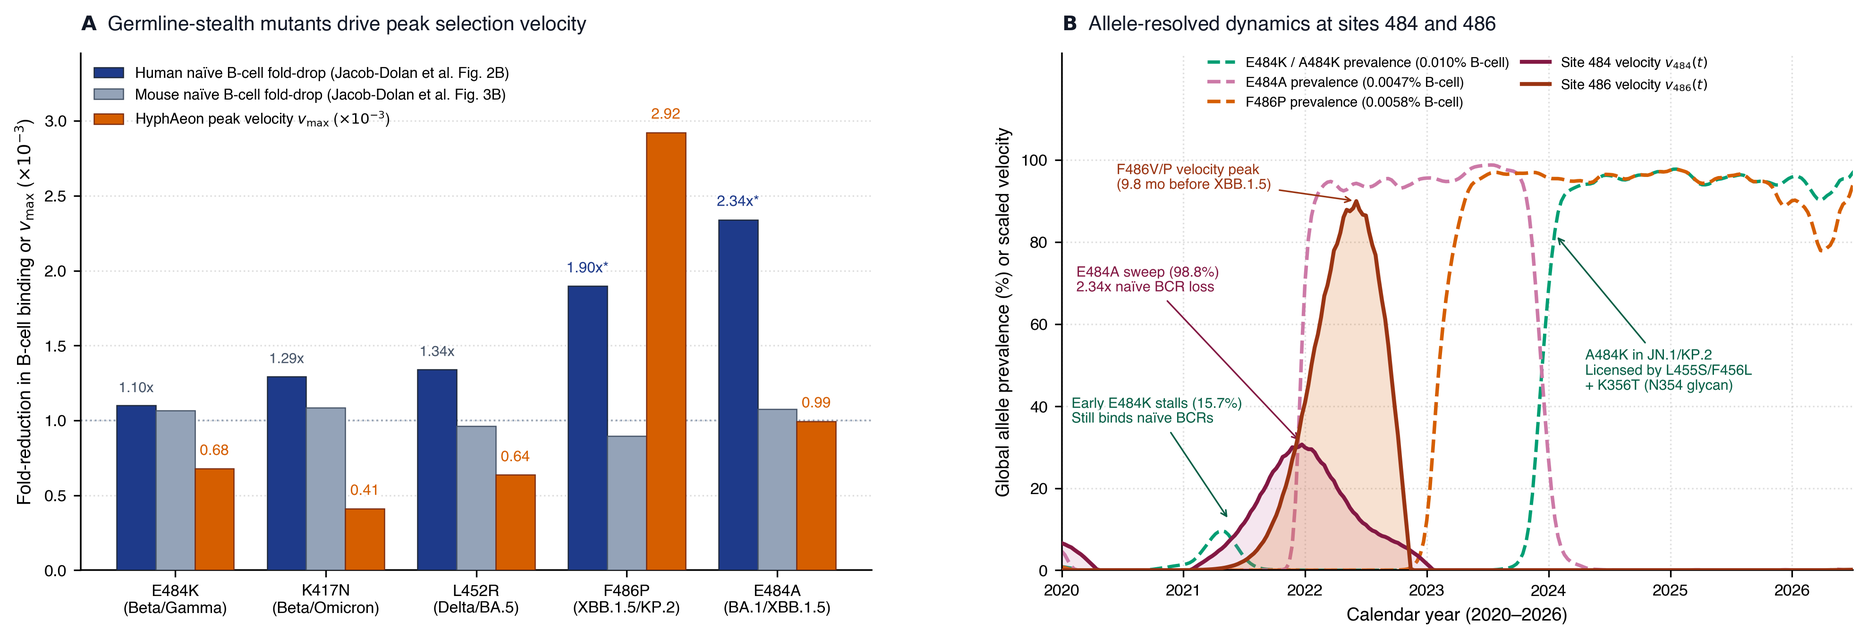
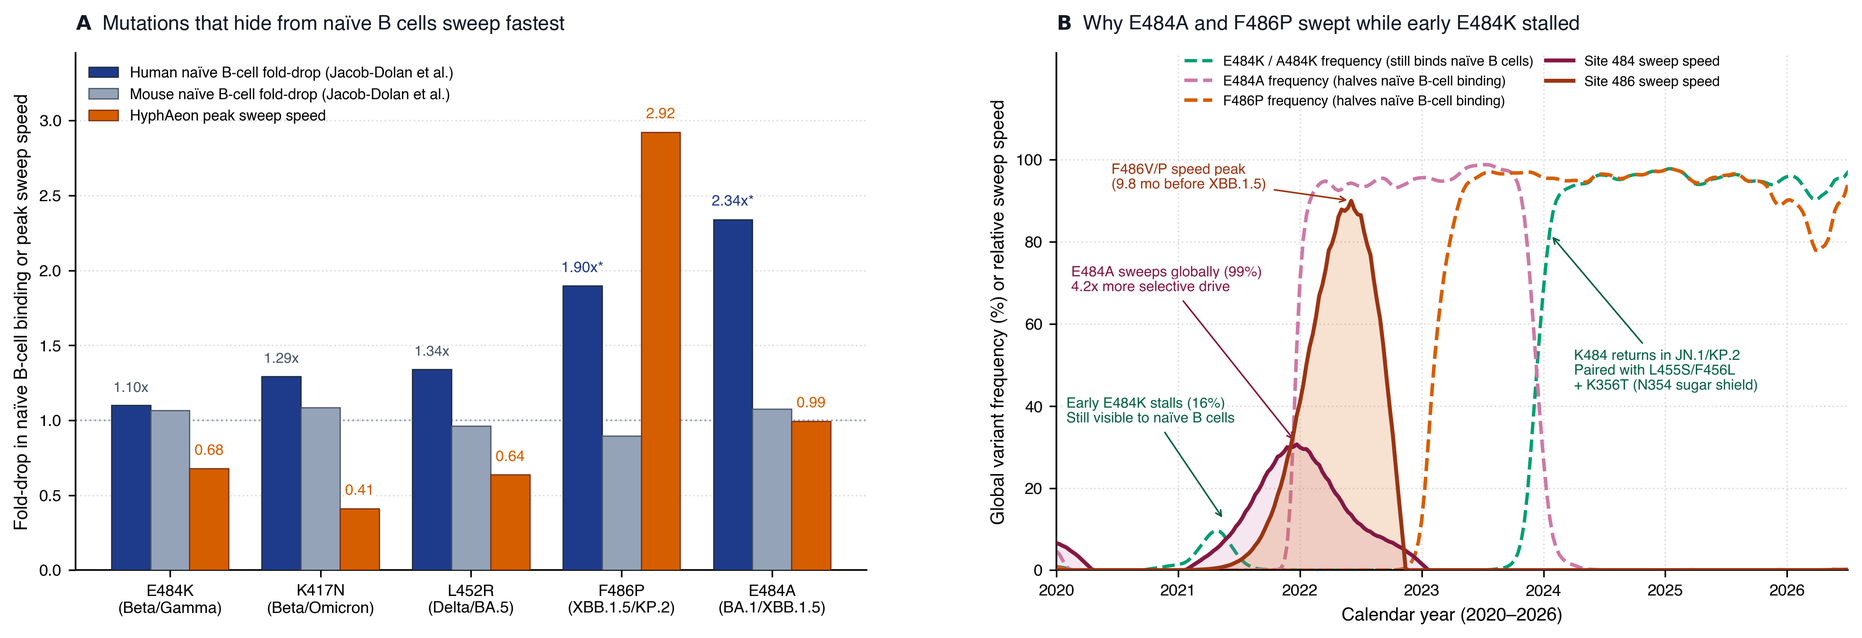
Simplify HyphAeon + Jacob-Dolan et al. blog post and figures for evolutionary biologists

diff --git a/blog/2026-10-21-hyphaeon-sars2-antigenicity.html b/blog/2026-10-21-hyphaeon-sars2-antigenicity.html
@@ -11,7 +11,7 @@
     <meta name="twitter:creator" content="@sergeilkp">
     <meta name="twitter:title" content="How SARS-CoV-2 learned to hide from our naïve B cells—and how HyphAeon sees it in the tree">
     <meta name="twitter:url" content="https://spond.github.io/CV.js/blog/2026-10-21-hyphaeon-sars2-antigenicity.html">
-    <meta name="twitter:description" content="A brilliant new preprint from Catherine Jacob-Dolan, Jim Boonyaratanakornkit, and Jesse Bloom shows that SARS-CoV-2 RBD evolved a 3-fold drop in recognition by human naïve B cells. Here is what happens when we point HyphAeon—our 1.9M-parameter phylogenetic foundation model—at their exact RBD mutations across 78 months of Spike evolution.">
+    <meta name="twitter:description" content="A brilliant new preprint from Catherine Jacob-Dolan, Jim Boonyaratanakornkit, and Jesse Bloom shows that the SARS-CoV-2 RBD evolved a 3-fold drop in recognition by human naïve B cells. Here is what happens when we look at their mutations across 78 months of Spike evolution using HyphAeon.">
     <meta name="twitter:image" content="https://spond.github.io/CV.js/blog/images/hyphaeon_bloom_fig1_velocity.png">
 
     <!-- Open Graph metadata -->
@@ -19,7 +19,7 @@
     <meta property="og:type" content="article">
     <meta property="og:url" content="https://spond.github.io/CV.js/blog/2026-10-21-hyphaeon-sars2-antigenicity.html">
     <meta property="og:image" content="https://spond.github.io/CV.js/blog/images/hyphaeon_bloom_fig1_velocity.png">
-    <meta property="og:description" content="A brilliant new preprint from Catherine Jacob-Dolan, Jim Boonyaratanakornkit, and Jesse Bloom shows that SARS-CoV-2 RBD evolved a 3-fold drop in recognition by human naïve B cells. Here is what happens when we point HyphAeon—our 1.9M-parameter phylogenetic foundation model—at their exact RBD mutations across 78 months of Spike evolution.">
+    <meta property="og:description" content="A brilliant new preprint from Catherine Jacob-Dolan, Jim Boonyaratanakornkit, and Jesse Bloom shows that the SARS-CoV-2 RBD evolved a 3-fold drop in recognition by human naïve B cells. Here is what happens when we look at their mutations across 78 months of Spike evolution using HyphAeon.">
     <meta property="og:site_name" content="Sergei L. Kosakovsky Pond">
 
     <link rel="stylesheet" href="../style.css">
@@ -340,7 +340,7 @@
                 </div>
 
                 <header class="post-header">
-                    <span class="post-tag">Viral Evolution &amp; Phylogenetic AI</span>
+                    <span class="post-tag">Viral Evolution &amp; Selection</span>
                     <h1>How SARS-CoV-2 learned to hide from our naïve B cells—and how HyphAeon sees it in the tree</h1>
                     <div class="post-meta">
                         <span><i>21 Oct 2026, by Sergei</i></span>
@@ -357,102 +357,104 @@
                     <div class="takeaways-section">
                         <span class="takeaways-header">Key Takeaways</span>
                         <p class="takeaways-zinger">
-                            <strong>Standard viral selection scans average over the entire family tree, mistaking pandemic sweeps that reach 100% prevalence for conserved sites and missing how escape mutations rewire the protein fold.</strong>
-                            Pairing Catherine Jacob-Dolan, Jim Boonyaratanakornkit, and Jesse Bloom’s new naïve human B-cell measurements with <code>HyphAeon</code>—our 1.9-million-parameter phylogenetic foundation model—shows that mutations erasing human germline B-cell recognition drove the fastest selective sweeps of the pandemic before shifting evolution to a cross-domain NTD clamp.
+                            <strong>Standard $dN/dS$ selection scans average over an entire viral tree, mistaking completed pandemic sweeps for conserved sites and missing how escape mutations team up across the protein.</strong>
+                            Pairing Catherine Jacob-Dolan, Jim Boonyaratanakornkit, and Jesse Bloom’s new human B-cell study with <code>HyphAeon</code>—our fast phylogenetic model of natural selection—shows that mutations hiding from brand-new human B cells drove the fastest sweeps of the pandemic before Spike evolved a molecular latch to tuck its receptor-binding domain out of sight.
                         </p>
                         <div class="takeaways-grid">
                             <div class="takeaway-card">
-                                <div class="takeaway-stat">4.2× Sweep Impulse</div>
-                                <div class="takeaway-label">Germline Stealth Wins</div>
-                                <p class="takeaway-desc"><code>E484K</code> and <code>E484A</code> both escape ancestral serum, but only <code>E484A</code> halves naïve human B-cell binding—generating a 4.2-fold larger selection velocity integral and sweeping to 98.8% dominance.</p>
+                                <div class="takeaway-stat">4.2× Stronger Sweep</div>
+                                <div class="takeaway-label">Site 484: E484K vs. E484A</div>
+                                <p class="takeaway-desc"><code>E484K</code> and <code>E484A</code> both escape old antibodies, but only <code>E484A</code> hides from brand-new human B cells—generating over 4 times more selective drive and sweeping to 99% of the global virus population.</p>
                             </div>
                             <div class="takeaway-card">
-                                <div class="takeaway-stat">29 / 31 Sweeps</div>
-                                <div class="takeaway-label">76% Rescued from Dilution</div>
-                                <p class="takeaway-desc">Static tree scans miss 22 of 29 adaptive RBD sweeps in XBB.1.5 and KP.2 (including <code>F486P</code> and <code>K417N</code>) after fixation; <code>HyphAeon</code> temporal velocity recovers all 29 ($\mathrm{OR} = 217.5$).</p>
+                                <div class="takeaway-stat">29 / 31 Sweeps Found</div>
+                                <div class="takeaway-label">76% Missed by Standard Scans</div>
+                                <p class="takeaway-desc">Once an adaptive mutation reaches 100% frequency, standard tree scans mistake its identical descendants for conservation—missing 22 of 29 RBD sweeps (including <code>F486P</code> and <code>K417N</code>) that <code>HyphAeon</code> recovers.</p>
                             </div>
                             <div class="takeaway-card">
-                                <div class="takeaway-stat">The KP.2 A484K Puzzle</div>
-                                <div class="takeaway-label">Epistatic &amp; Glycan Licensing</div>
-                                <p class="takeaway-desc">Why did KP.2 revert to <code>K484</code> yet drop to 3-fold lower B-cell binding? In 2024–2026, <code>K484</code> is 100% co-selected with the <code>L455S/F456L/L452W</code> ridge hub and the <code>K356T</code> (N354) glycan shield.</p>
+                                <div class="takeaway-stat">The KP.2 K484 Mystery</div>
+                                <div class="takeaway-label">Helper Mutations &amp; Sugar Shield</div>
+                                <p class="takeaway-desc">Why did KP.2 switch back to <code>K484</code> yet lose even more B-cell binding? In 2024–2026, <code>K484</code> travels in 100% of genomes with the <code>L455S/F456L</code> ridge remodel and a new <code>N354</code> sugar shield (<code>K356T</code>).</p>
                             </div>
                             <div class="takeaway-card">
                                 <div class="takeaway-stat">186 NTD–RBD Pairs</div>
-                                <div class="takeaway-label">Stage 2 Conformational Clamp</div>
-                                <p class="takeaway-desc">Once exposed RBD germline motifs were depleted in 2022, Spike selection velocity shifted to 39 NTD sweeps that pack against the adjacent RBD to lock it in the closed "down" state.</p>
+                                <div class="takeaway-label">A Two-Stage Hiding Strategy</div>
+                                <p class="takeaway-desc">After shaving off the easy targets on the exposed RBD surface in 2022, selection shifted to 39 sweeps in the N-terminal domain that press against the neighboring RBD to hold it closed.</p>
                             </div>
                         </div>
                     </div>
 
-                    <p>Whenever a new preprint from Jesse Bloom’s lab drops on bioRxiv, I stop what I am doing and read it.
-                    Last Friday’s paper by Catherine Jacob-Dolan, Jim Boonyaratanakornkit, and Jesse Bloom (<a href="https://doi.org/10.64898/2026.10.15.759476" target="_blank" rel="noopener noreferrer">Jacob-Dolan et al., 2026</a>) is a classic of the genre: a clean, experimentally decisive study that exposes an evolutionary mechanism hiding in plain sight.</p>
+                    <p>Whenever a new preprint from Fred Hutch and UW drops on bioRxiv, I stop what I am doing and read it.
+                    Last Friday’s paper by Catherine Jacob-Dolan, Jim Boonyaratanakornkit, and Jesse Bloom (<a href="https://doi.org/10.64898/2026.10.15.759476" target="_blank" rel="noopener noreferrer">Jacob-Dolan et al., 2026</a>) is a gem: a clean, clever experiment that answers a question most of us hadn't even thought to ask.</p>
 
-                    <p>We know SARS-CoV-2 evolves to escape neutralizing antibodies from prior exposures.
-                    Catherine, Jim, and Jesse asked a deeper question: <strong>has the receptor-binding domain (RBD) also evolved to become inherently less visible to unmutated, naïve human B cells?</strong>
-                    Using human blood cells frozen between 2003 and 2007—long before COVID-19—they found that 3-fold fewer naïve human B cells recognize the 2024 KP.2 RBD ($0.0040\%$) than Wuhan-Hu-1 ($0.011\%$).
-                    Even better, naïve mouse B cells showed <em>zero</em> decrease ($0.013\%$ across all variants), proving that SARS-CoV-2 specifically shaved off surface motifs targeted by the human germline antibody repertoire (<a href="https://doi.org/10.1126/science.adc9498" target="_blank" rel="noopener noreferrer">Shrock et al., 2023</a>).</p>
+                    <p>When evolutionary biologists talk about antigenic drift in SARS-CoV-2 or flu, we almost always mean escaping <em>memory</em> antibodies—the antibodies our immune system already made after a previous infection or vaccine.
+                    Catherine, Jim, and Jesse asked something more fundamental: <strong>has SARS-CoV-2 also evolved to hide from our <em>naïve</em> B cells—the brand-new, unmutated immune cells we are born with?</strong></p>
 
-                    <p>Reading their paper over coffee, I realized their data was the ideal testbed for <strong>HyphAeon</strong>—a phylogenetic foundation model we built over the past year.
-                    What happens when we project their nine RBD constructs and 31 variant sites onto 78 months of SARS-CoV-2 Spike evolution?</p>
+                    <p>By testing human white blood cells frozen between 2003 and 2007—more than a decade before COVID-19 existed—they showed that 3-fold fewer naïve human B cells can grab onto the 2024 KP.2 receptor-binding domain (RBD) than the original 2019 Wuhan-Hu-1 RBD ($0.0040\%$ vs. $0.011\%$).
+                    Then they ran the exact same test on naïve B cells from mice and saw <em>no drop at all</em> ($0.013\%$ across every variant).
+                    In other words, the RBD hasn't become generically "non-stick."
+                    It specifically shaved off the amino-acid footholds that human germline antibodies are wired to grab first (<a href="https://doi.org/10.1126/science.adc9498" target="_blank" rel="noopener noreferrer">Shrock et al., 2023</a>).</p>
 
                     <hr class="fine-line-divider" />
 
-                    <p><span class="dropcap">L</span>et's start with the sharpest contrast in their paper.
-                    In Figure 2B, the authors test five famous single mutations in the Wuhan-Hu-1 RBD: <code>E484K</code>, <code>E484A</code>, <code>K417N</code>, <code>L452R</code>, and <code>F486P</code>.
-                    All five escape mature Wuhan-Hu-1 serum antibodies.
-                    Yet only two—<strong><code>E484A</code></strong> ($2.34\times$ drop, $p_{\mathrm{adj}} = 0.007$) and <strong><code>F486P</code></strong> ($1.90\times$ drop, $p_{\mathrm{adj}} = 0.045$)—significantly reduce naïve human B-cell recognition, while <code>E484K</code> at the exact same residue leaves naïve B-cell binding intact ($0.010\%$ vs. $0.011\%$, $p_{\mathrm{adj}} = 0.58$).
-                    To see whether germline stealth shaped how these mutations spread in nature, we tracked their selective trajectories across the global SARS-CoV-2 tree (Fig. 1).</p>
+                    <p><span class="dropcap">L</span>ook at the five famous single mutations they tested in the Wuhan-Hu-1 RBD (their Figure 2B): <code>E484K</code>, <code>E484A</code>, <code>K417N</code>, <code>L452R</code>, and <code>F486P</code>.
+                    All five help the virus escape antibodies from an early Wuhan-Hu-1 infection.
+                    Yet only two of them—<strong><code>E484A</code></strong> ($2.3\times$ drop) and <strong><code>F486P</code></strong> ($1.9\times$ drop)—substantially reduce recognition by naïve human B cells.
+                    Mutating site 484 to lysine (<code>E484K</code>, seen in Beta and Gamma) barely changes naïve B-cell binding ($0.010\%$ vs. $0.011\%$), whereas mutating the <em>exact same site</em> to alanine (<code>E484A</code>, seen in Omicron) cuts naïve B-cell recognition in half.</p>
+
+                    <p>In their Discussion, the authors wonder whether hiding from naïve B cells actually helped drive SARS-CoV-2 evolution, or was just an accidental side effect of escaping older antibodies.
+                    To find out what the viral family tree says, we ran their mutations through <strong>HyphAeon</strong>—a new tool we built over the past year—across $3{,}839$ dated SARS-CoV-2 Spike sequences spanning 2019 to mid-2026 (Fig. 1).</p>
 
                     <figure class="blog-figure">
-                        <img src="images/hyphaeon_bloom_fig1_velocity.png" alt="Comparison of Jacob-Dolan et al. naive B-cell fold reduction and HyphAeon peak selection velocity across RBD mutants">
+                        <img src="images/hyphaeon_bloom_fig1_velocity.png" alt="Comparison of Jacob-Dolan et al. naive B-cell fold reduction and HyphAeon peak sweep speed across RBD mutants">
                         <figcaption>
-                            <strong>Figure 1. RBD mutations that ablate human germline B-cell recognition drive the sharpest selective velocity bursts.</strong>
-                            (A) Comparing human (dark blue) and mouse (grey) naïve B-cell fold-drops from <a href="https://doi.org/10.64898/2026.10.15.759476" target="_blank" rel="noopener noreferrer">Jacob-Dolan et al. (2026)</a> against <code>HyphAeon</code> peak selection velocity $v_{\max}$ (orange) across the five tested single mutants.
-                            (B) Global allele prevalence ($9.34\text{M}$ genomes in <a href="https://doi.org/10.1093/bioinformatics/btab856" target="_blank" rel="noopener noreferrer">CoV-Spectrum</a>, dashed) and <code>HyphAeon</code> selection velocity $v_s(t)$ (solid curves) at codons 484 and 486 from 2020 to mid-2026.
+                            <strong>Figure 1. RBD mutations that hide from human naïve B cells drive the fastest selective sweeps.</strong>
+                            (A) Comparing human (dark blue) and mouse (grey) naïve B-cell fold-drops from <a href="https://doi.org/10.64898/2026.10.15.759476" target="_blank" rel="noopener noreferrer">Jacob-Dolan et al. (2026)</a> against <code>HyphAeon</code> peak sweep speed (orange) across the five tested single mutants.
+                            (B) Global variant frequencies ($9.34\text{M}$ genomes in <a href="https://doi.org/10.1093/bioinformatics/btab856" target="_blank" rel="noopener noreferrer">CoV-Spectrum</a>, dashed) and <code>HyphAeon</code> sweep speed (solid curves) at sites 484 and 486 from 2020 to mid-2026.
                         </figcaption>
                     </figure>
 
                     <hr class="fine-line-divider" />
 
-                    <p>Before looking at the numbers, how does <code>HyphAeon</code> measure selection across a tree?
-                    Most protein language models read whole sequences across flat alignments without a tree, using hundreds of millions of parameters to memorize protein families.
-                    <code>HyphAeon</code> is a <strong>1.9-million-parameter geometric transformer</strong> trained on $17{,}186$ mammalian alignments ($742$ species, $9.77\text{M}$ codons) scored by <a href="https://doi.org/10.1371/journal.pgen.1002764" target="_blank" rel="noopener noreferrer"><code>HyPhy MEME</code></a>.
-                    It evaluates <strong>one codon column at a time</strong> alongside a 4D coordinate map of branch distances, routing silent ($dS$) and replacement ($dN$) changes through separate channels.</p>
+                    <p>Why did we need a new tool to look at this?
+                    If you run a classic $dN/dS$ selection test like <a href="https://doi.org/10.1371/journal.pgen.1002764" target="_blank" rel="noopener noreferrer"><code>HyPhy MEME</code></a> across a six-year SARS-CoV-2 tree, you hit a frustrating blind spot: <strong>once a beneficial mutation like <code>F486P</code> sweeps to 100% of the viral population, every subsequent virus inherits that same proline.</strong>
+                    A standard tree scan sees thousands of identical descendant branches, mistakes a finished selective sweep for purifying conservation, and misses the site!</p>
 
-                    <p>Because a forward pass takes milliseconds and assigns an attention weight $\hat{a}_{s,m}$ to every mutated branch, differentiating site attribution over time measures instantaneous <strong>selection velocity</strong>:</p>
+                    <p>We built <code>HyphAeon</code> to fix that.
+                    Unlike massive protein language models that read entire protein sequences and memorize gene families, <code>HyphAeon</code> is a small (1.9-million-parameter) neural network trained on nearly 10 million mammalian codons scored by <code>MEME</code>.
+                    It looks at just <strong>one codon column at a time</strong> along with the evolutionary distances between sequences, keeping silent ($dS$) and amino-acid ($dN$) changes on separate tracks.
+                    Because it scores an alignment in milliseconds and highlights <em>which specific branches</em> are under positive selection at each site, it gives evolutionary biologists two practical tools:</p>
 
-                    $$v_s(t) = \max\!\left(0,\, \frac{d}{dt}\hat{a}_s(t)\right)$$
-
-                    <p>Why differentiate over time?
-                    Standard whole-tree scans suffer from <strong>post-fixation dilution</strong>: once <code>F486P</code> sweeps to $100\%$, every descendant inherits that proline, and static models mistake those thousands of identical branches for purifying conservation.
-                    Selection velocity $v_s(t)$ peaks as a variant takes off—warning of major sweeps 2.5 to 9.8 months before $80\%$ global dominance—and drops to zero at fixation.
-                    Meanwhile, outer products of branch attributions across sites extract <strong>epistatic co-selection</strong> ($\mathrm{CESI}_{ij}$) between co-evolving residues.</p>
+                    <ol>
+                        <li><strong>A selective sweep speedometer:</strong> By tracking how fast a site’s selection signal rises over sampling dates, we capture a mutation’s burst of speed while it is actively outcompeting rival strains—without losing the signal after it hits 100% fixation.</li>
+                        <li><strong>A co-evolution map:</strong> By finding pairs of sites where positive selection lights up on the exact same tree branches, we can see which mutations need a helper mutation elsewhere in Spike to spread.</li>
+                    </ol>
 
                     <hr class="fine-line-divider" />
 
-                    <p>Running <code>HyphAeon</code> across $3{,}839$ dated Spike genomes ($1{,}863$ haplotypes, Dec 2019–mid 2026) and comparing against Jacob-Dolan, Boonyaratanakornkit, and Bloom’s 31 RBD sites (their Fig. 1B) yields three clean findings (Fig. 2):</p>
+                    <p>When we line up <code>HyphAeon</code>’s speedometer and co-evolution map with the 31 RBD sites in Jacob-Dolan, Boonyaratanakornkit, and Bloom’s paper (their Fig. 1B), three stories jump out (Fig. 2):</p>
 
                     <ul>
-                        <li><strong>Germline-stealth escape beats germline-visible escape by $4.2\times$:</strong>
-                        In 2021, Beta and Gamma introduced <code>E484K</code> on the Wuhan-Hu-1 background. Because <code>E484K</code> still binds naïve human B cells ($0.010\%$), primary infections elicited potent anti-<code>K484</code> germline antibodies; its velocity stalled ($v_{\max} = 0.68 \times 10^{-3}$, selective integral $\mathrm{AUC} = 0.167 \times 10^{-3}$), peaking at $15.7\%$ before vanishing in 2022 (Fig. 1B). When Omicron introduced <strong><code>E484A</code></strong> ($2.34\times$ naïve B-cell drop), it escaped serum <em>without</em> recruiting de novo B cells against <code>A484</code>, generating a <strong>$4.23\times$ larger velocity integral ($\mathrm{AUC} = 0.706 \times 10^{-3}$)</strong> and sweeping to $98.8\%$ fixation. Likewise, <strong><code>F486P</code></strong> ($1.90\times$ B-cell drop) reached the highest velocity of all tested mutants ($v_{\max} = 2.92 \times 10^{-3}$, $4.6\times$ above <code>L452R</code> and $7.1\times$ above <code>K417N</code>).</li>
+                        <li><strong>Hiding from naïve B cells turned a stalled escape mutation into a global sweep:</strong>
+                        When Beta and Gamma introduced <code>E484K</code> in early 2021, it escaped old Wuhan-Hu-1 antibodies, but because it was still easy for naïve human B cells to grab ($0.010\%$), newly infected people quickly made fresh antibodies against <code>K484</code>. On our speedometer, <code>E484K</code>’s selective burst was brief and weak, stalling at ~16% of sequences before dying out (Fig. 1B). When Omicron hit upon <strong><code>E484A</code></strong>—which both escapes old antibodies <em>and</em> cuts naïve B-cell binding in half—it generated <strong>$4.2\times$ more total selective drive</strong> and swept to 99% of the global virus population. And the other mutation that halves naïve B-cell binding, <strong><code>F486P</code></strong>, produced the single fastest selective surge of all five mutants tested ($4.6\times$ to $7.1\times$ faster at its peak than <code>L452R</code> or <code>K417N</code>).</li>
 
-                        <li><strong>Rescuing 76% of RBD sweeps—and solving the KP.2 <code>A484K</code> puzzle:</strong>
-                        Across the 31 RBD sites in Figure 1B, <code>HyphAeon</code> velocity confirms <strong>29 of 31 (93.5%)</strong> as episodic sweeps ($p_{\mathrm{perm}} \le 0.034$) versus 12 of 192 (6.2%) across the rest of the RBD ($\mathrm{OR} = 217.5, p = 1.5 \times 10^{-24}$), rescuing <strong>22 of 29 sweeps (75.9%)</strong>—including <code>F486P</code> and <code>K417N</code>—missed by static scans (Fig. 2A). Look closely at site 484 in Figure 1B: KP.2 reverted from <code>A484</code> back to <strong><code>K484</code></strong>, yet its naïve B-cell binding dropped 1.5-fold below XBB.1.5 ($0.0061\% \to 0.0040\%$). Why? Unlike 2021 <code>E484K</code> ($0\%$ co-occurrence), 2024–2026 <code>A484K</code> ($n = 2{,}787$ genomes) is <strong>100% co-selected</strong> with the KP.2 <strong>codon 455/456/452/450 ridge hub</strong> ($\mathrm{CESI} = 6.89\text{–}8.93, q < 10^{-300}$; <a href="https://doi.org/10.1038/s41586-024-07636-1" target="_blank" rel="noopener noreferrer">Dadonaite et al., 2024</a>) and <strong><code>K356T</code></strong> ($100\%$ prevalence, $\sum\mathrm{CESI} = 62.4$), which installs an <strong>N354 glycan shield</strong> over the RBD core.</li>
+                        <li><strong>Why did KP.2 switch <em>back</em> to <code>K484</code>—and still lose even more naïve B-cell binding?</strong>
+                        First, across the 31 RBD sites mutated in XBB.1.5 and KP.2 (their Fig. 1B), standard whole-tree scans miss <strong>22 out of 29 adaptive sweeps (76%)</strong>—including <code>F486P</code> and <code>K417N</code>—because they already fixed across Omicron descendants; <code>HyphAeon</code>’s speedometer recovers all 29 (Fig. 2A). Second, look closely at site 484 in their Figure 1B: in KP.2 (a JN.1 descendant), site 484 actually switched from <code>A484</code> <em>back</em> to <strong><code>K484</code></strong>! If <code>E484K</code> alone doesn't reduce naïve B-cell binding, why did KP.2 drop another 1.5-fold below XBB.1.5 ($0.0061\% \to 0.0040\%$)? <code>HyphAeon</code>’s co-evolution map shows why: in 2021, <code>E484K</code> arose by itself. In 2024–2026 ($n = 2{,}787$ genomes), <code>K484</code> only spread because it traveled 100% of the time with two KP.2 innovations: the <strong><code>L455S</code> / <code>F456L</code> / <code>L452W</code> / <code>N450D</code> ridge remodel</strong> (which reshapes the binding surface right next to 484; <a href="https://doi.org/10.1038/s41586-024-07636-1" target="_blank" rel="noopener noreferrer">Dadonaite et al., 2024</a>) and <strong><code>K356T</code></strong>, which attaches a brand-new <strong>sugar shield (an N-linked glycan at <code>N354</code>)</strong> over the RBD core.</li>
 
-                        <li><strong>From RBD germline loss to NTD conformational clamping:</strong>
-                        To address the authors’ third study limitation—that monomeric RBD probes miss other Spike domains and "RBD-down" conformational shifts—we tracked all 129 full-Spike sweeps (Fig. 2B). Selection velocity peaked first in the RBM around <strong>2022.20</strong> (<code>E484A</code>, <code>F486P</code>), then shifted to the <strong>N-terminal domain (NTD, 39 sweeps, median peak 2023.03, highest mean velocity $1.14 \times 10^{-3}$)</strong>. Fully <strong>66.1% (312 / 472)</strong> of RBD epistatic pairs connect to other domains, including <strong>186 NTD–RBD pairs</strong> (led by <code>S50L–L455S</code>, $\mathrm{CESI} = 12.41$) that pack against the neighboring protomer’s closed RBD. Once exposed RBD germline motifs were depleted, SARS-CoV-2 co-evolved an NTD latch to hide the remaining RBD epitopes in the "down" state.</li>
+                        <li><strong>What happens outside the RBD? A two-stage hiding strategy:</strong>
+                        In their Limitations section, the authors note that testing the isolated RBD cannot measure changes elsewhere in Spike—especially the trend for newer variants to keep their RBD tucked in the closed ("down") position where antibodies can't reach it. Across all 129 adaptive sweeps in full Spike, <code>HyphAeon</code> shows a clear two-stage shift (Fig. 2B): in 2022, selection focused directly on the exposed RBD surface (<code>E484A</code>, <code>F486P</code>), shaving off the easy human germline targets. By 2023–2025, once the RBD ran out of easy targets to delete without hurting ACE2 receptor binding, the hottest selection moved to the <strong>N-terminal domain (NTD, 39 sweeps)</strong>. Two-thirds of all co-evolving pairs involving the RBD actually connect it to other domains—including <strong>186 pairs linking the RBD to the NTD</strong> (at sites like <code>S50L</code> and <code>L216F</code> that press against the neighboring RBD in 3D structures to hold it closed). Once the RBD shaved off its most obvious targets, Spike evolved a molecular latch in the NTD to keep the remaining RBD epitopes tucked out of sight.</li>
                     </ul>
 
                     <figure class="blog-figure">
-                        <img src="images/hyphaeon_bloom_fig2_epistasis.png" alt="HyphAeon post-fixation rescue across all 31 Jacob-Dolan et al. Fig 1B RBD sites and full-Spike domain wave progression">
+                        <img src="images/hyphaeon_bloom_fig2_epistasis.png" alt="HyphAeon rescue of fixed RBD sweeps across all 31 Jacob-Dolan et al. Fig 1B sites and full-Spike domain progression">
                         <figcaption>
-                            <strong>Figure 2. Epistatic licensing across the 31 RBD variant sites and two-stage progression across full Spike.</strong>
-                            (A) Static whole-tree selection (x-axis) vs. <code>HyphAeon</code> epistatic network strength ($\sum\mathrm{CESI}$, y-axis) across all 31 RBD sites in Figure 1B of <a href="https://doi.org/10.64898/2026.10.15.759476" target="_blank" rel="noopener noreferrer">Jacob-Dolan et al. (2026)</a>; point size reflects peak velocity. Static scans ($q \le 0.10$, dashed line) miss 22 of 29 confirmed sweeps.
-                            (B) Peak selection velocity dates ($t^*$) across all 129 full-Spike sweeps, showing the transition from Stage 1 direct RBM germline ablation (2022.2) to Stage 2 NTD-mediated RBD-down clamping (2023.0+).
+                            <strong>Figure 2. Rescuing fixed RBD sweeps and tracking Spike’s two-stage hiding strategy.</strong>
+                            (A) Standard whole-tree selection score (x-axis) vs. <code>HyphAeon</code> co-evolution strength with other Spike sites (y-axis) across all 31 RBD sites in Figure 1B of <a href="https://doi.org/10.64898/2026.10.15.759476" target="_blank" rel="noopener noreferrer">Jacob-Dolan et al. (2026)</a>; circle size reflects peak sweep speed. Standard static scans ($q \le 0.10$, dashed line) miss 22 of 29 confirmed sweeps after they fix.
+                            (B) Timing of peak sweep speed across all 129 full-Spike adaptive sweeps, showing the shift from Stage 1 (shaving exposed RBM targets in 2022) to Stage 2 (latching the RBD closed via NTD mutations in 2023+).
                         </figcaption>
                     </figure>
 
-                    <p>This is why pairing quantitative immunology from Catherine Jacob-Dolan, Jim Boonyaratanakornkit, and Jesse Bloom with millisecond phylogenetic foundation models is so much fun: wet-lab flow cytometry tells us <em>what</em> changed in human B-cell recognition, and <code>HyphAeon</code>’s velocity and epistasis operators show <em>how</em> natural selection wired those changes together across the viral tree.</p>
+                    <p>This is why pairing experimental immunology from Catherine Jacob-Dolan, Jim Boonyaratanakornkit, and Jesse Bloom with fast phylogenetic models is so rewarding: flow cytometry at the lab bench tells us <em>what</em> changed in human B-cell recognition, and the viral tree shows us <em>how</em> natural selection wired those changes together in the wild.</p>
 
                     <div class="callout-box">
                         <strong>Explore the Data &amp; Preprint</strong>
